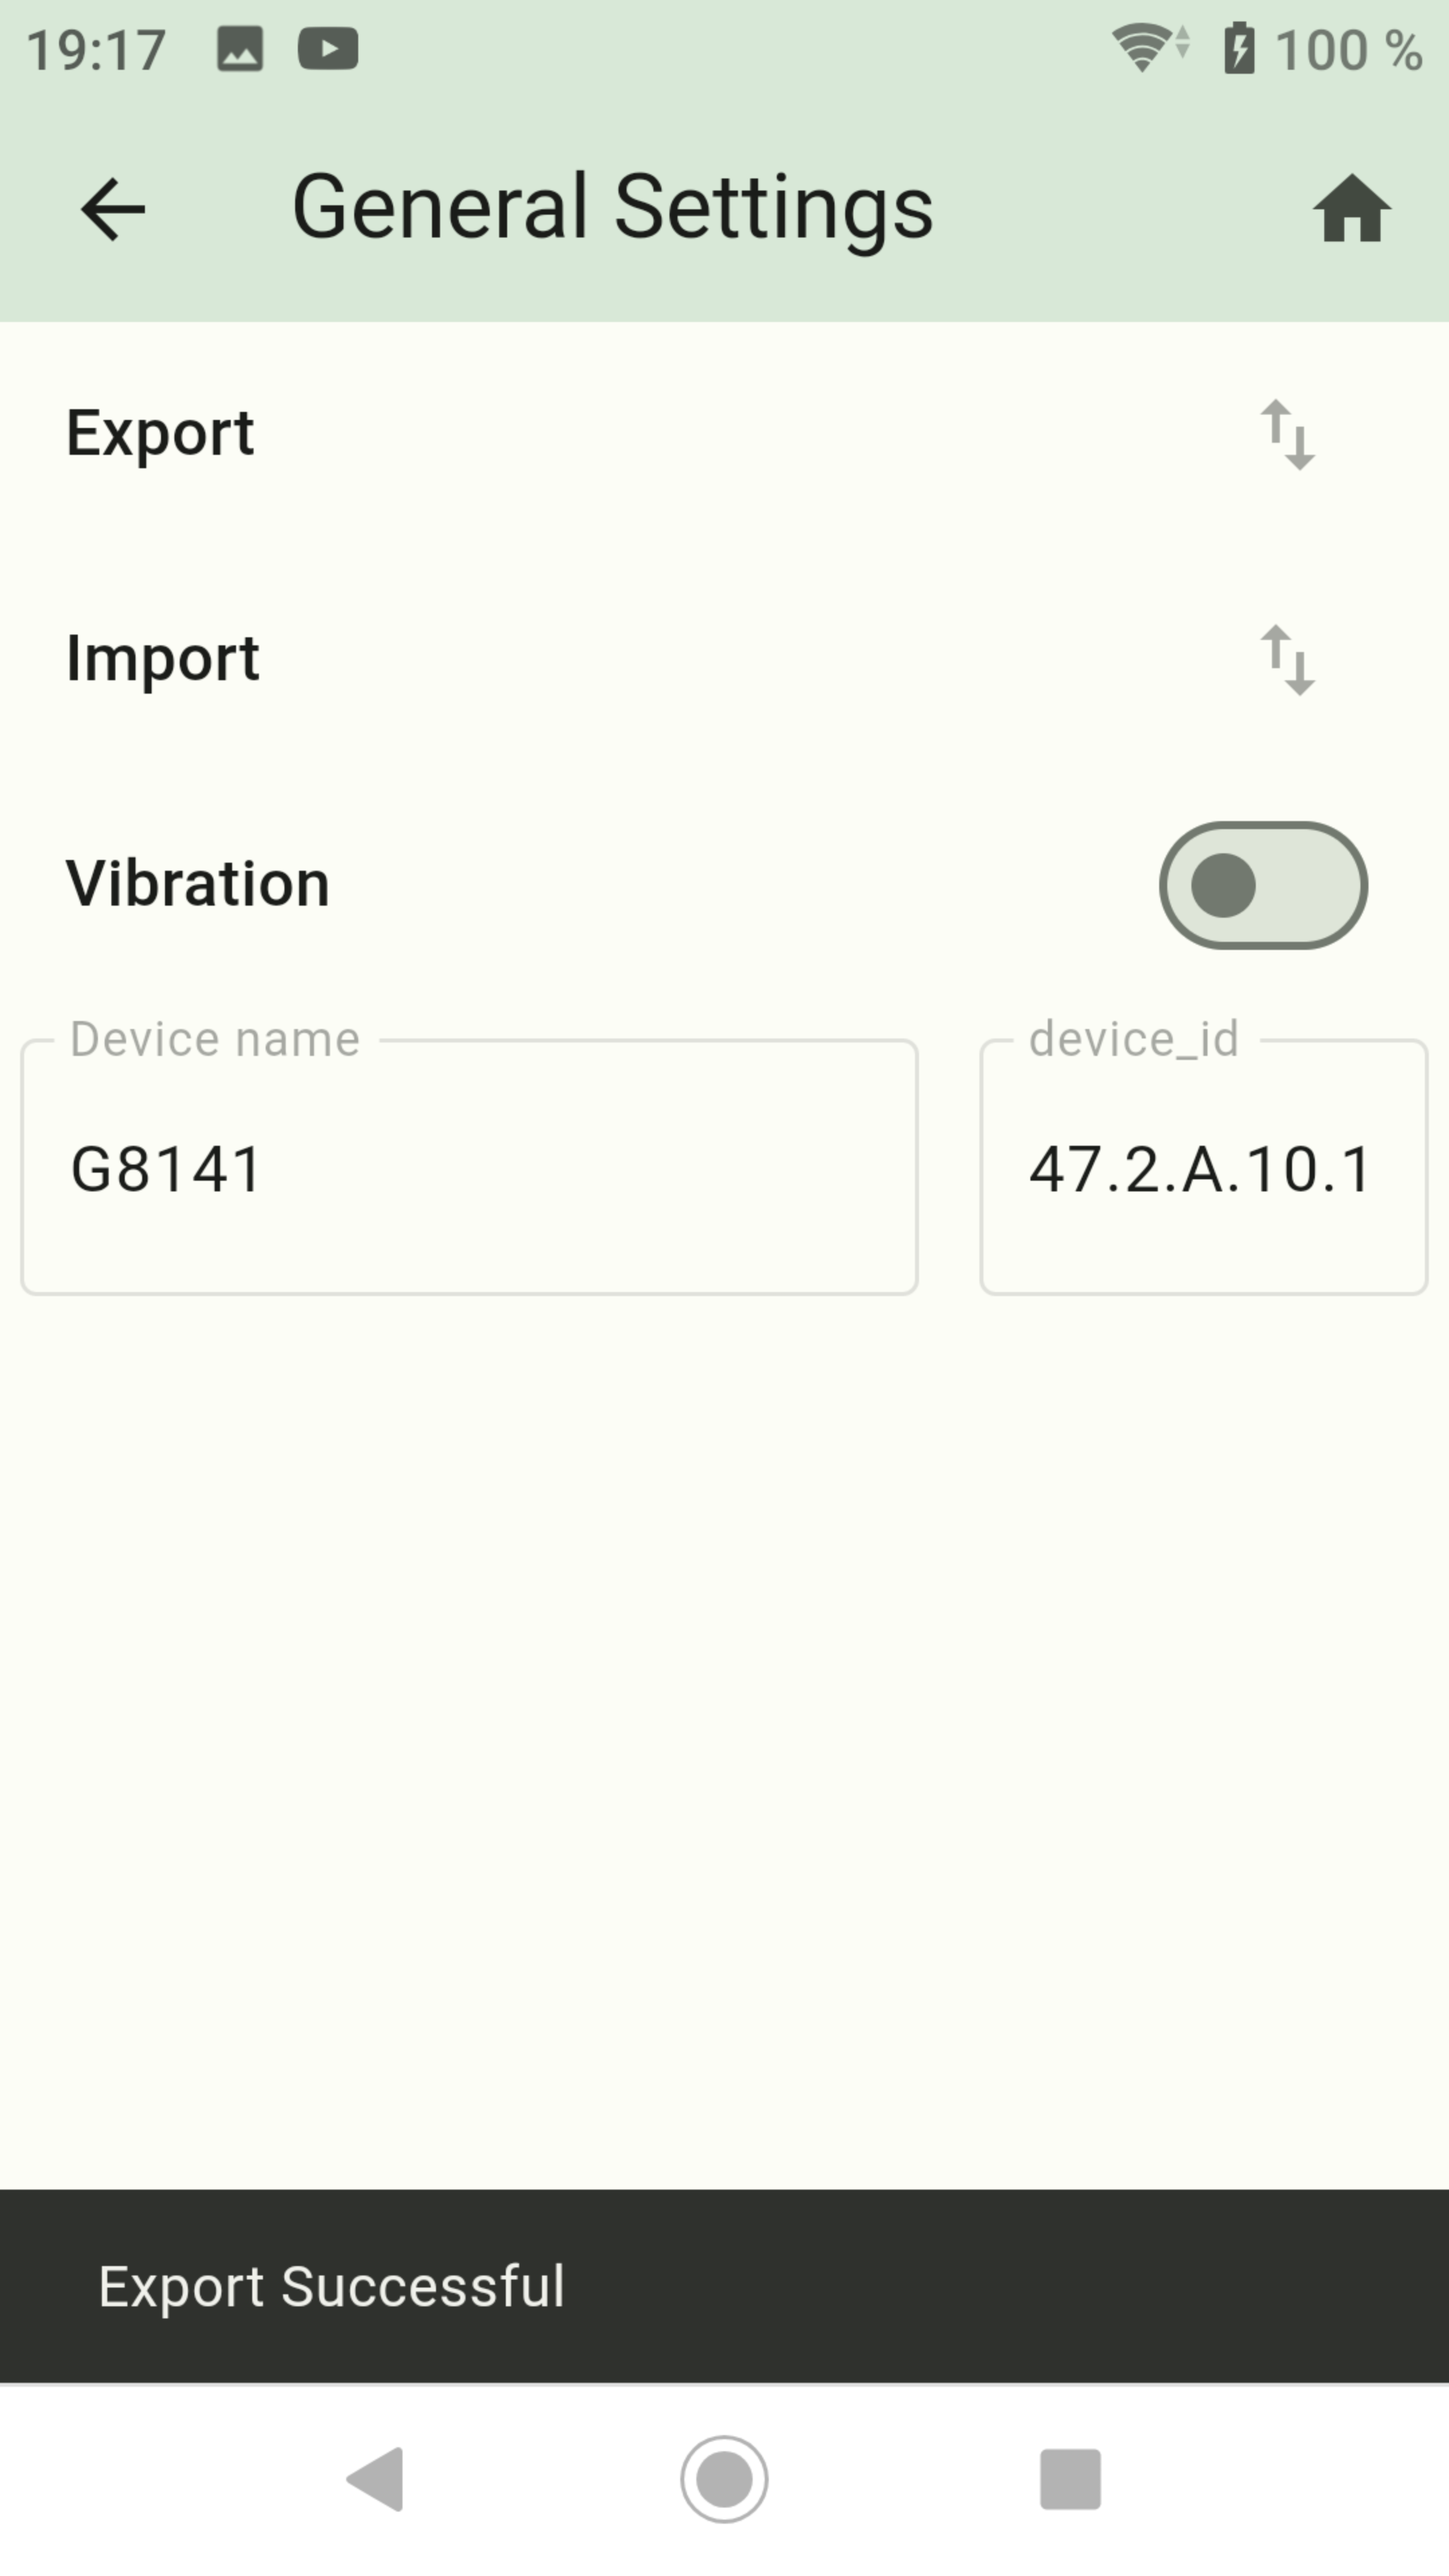
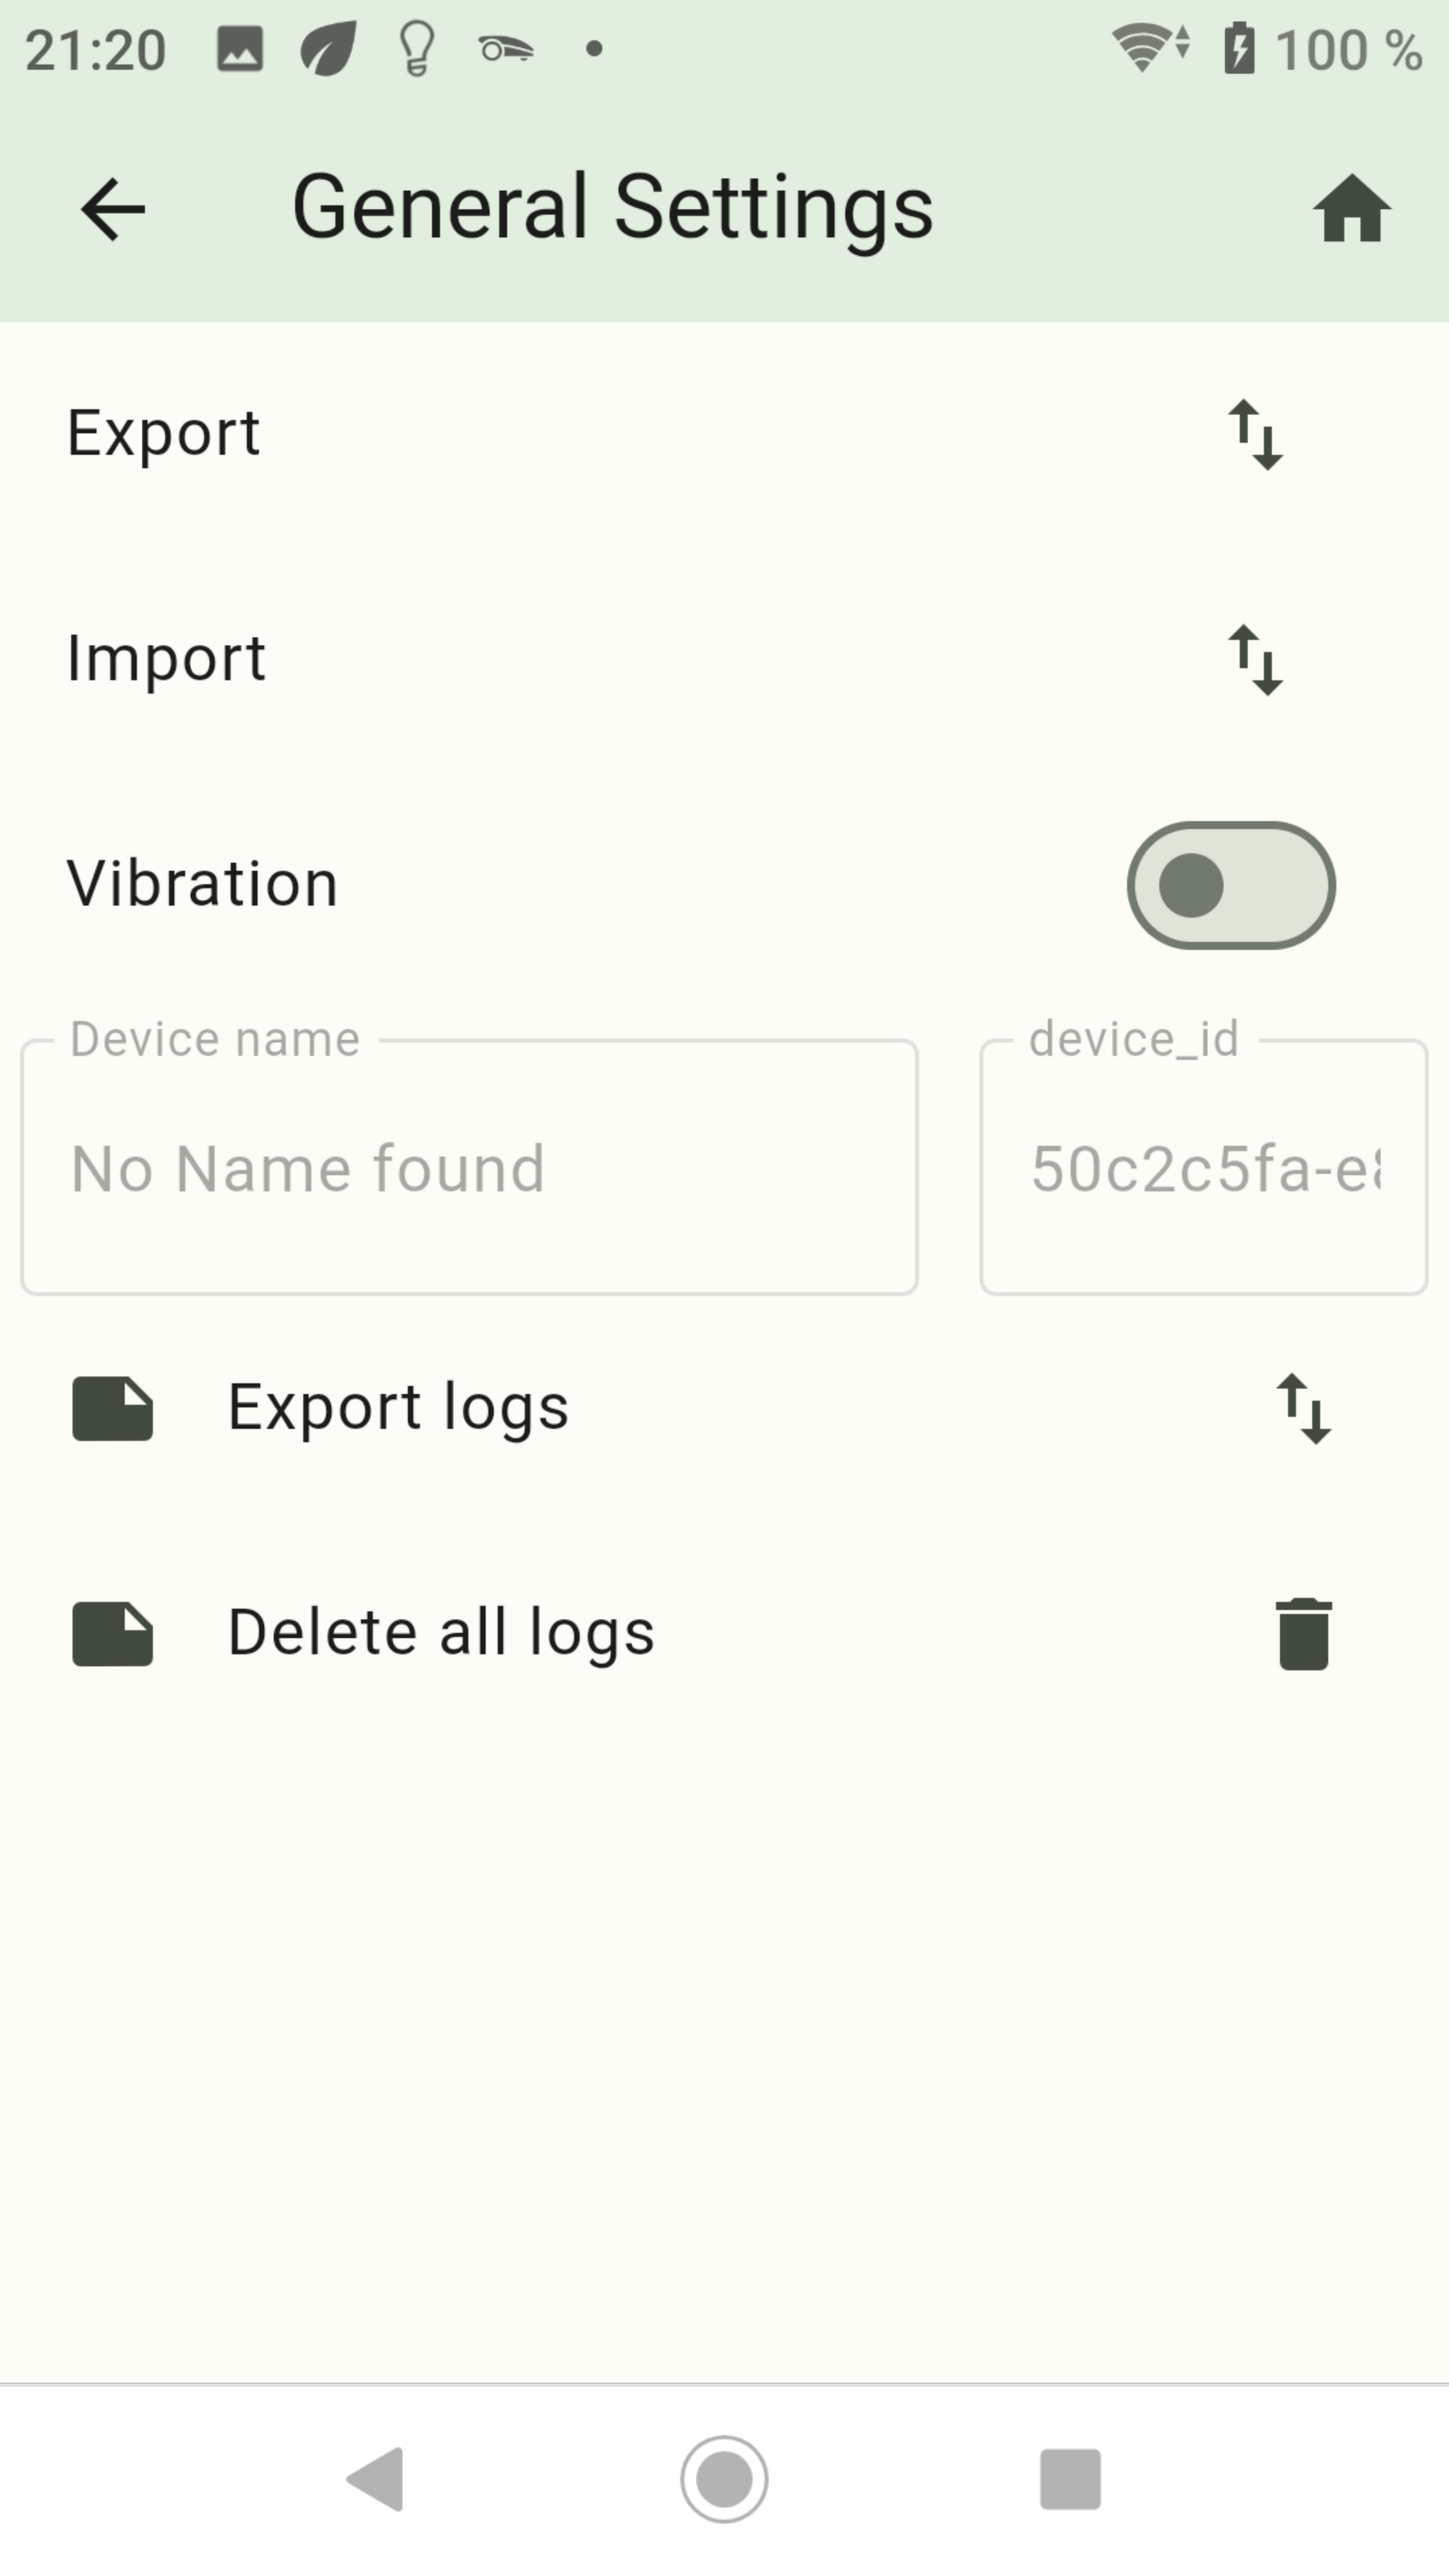
add generel log

diff --git a/docs/de/general.md b/docs/de/general.md
@@ -13,4 +13,7 @@
 - Import anklicken, Backup-Datei auswählen und importieren.
 - Vibration: Keine Funktion
 - Info Device Name und Geräte ID
+- Export logs anklicken, Ordner auswählen und speichern.
+- Delete all logs Ordner auswählen und alles löschen.
+
 ![app_general_settings.png](img/app_general_settings.png)

diff --git a/docs/en/general.md b/docs/en/general.md
@@ -14,5 +14,7 @@
 - Click import, select backup file and import.
 - Vibration: No function
 - Info Device Name and Device ID
+- Click Export logs, select folder and save.
+- Click Delete all logs, select folder and delete all files.
 
 ![app_general_settings.png](img/../../de/img/app_general_settings.png)
